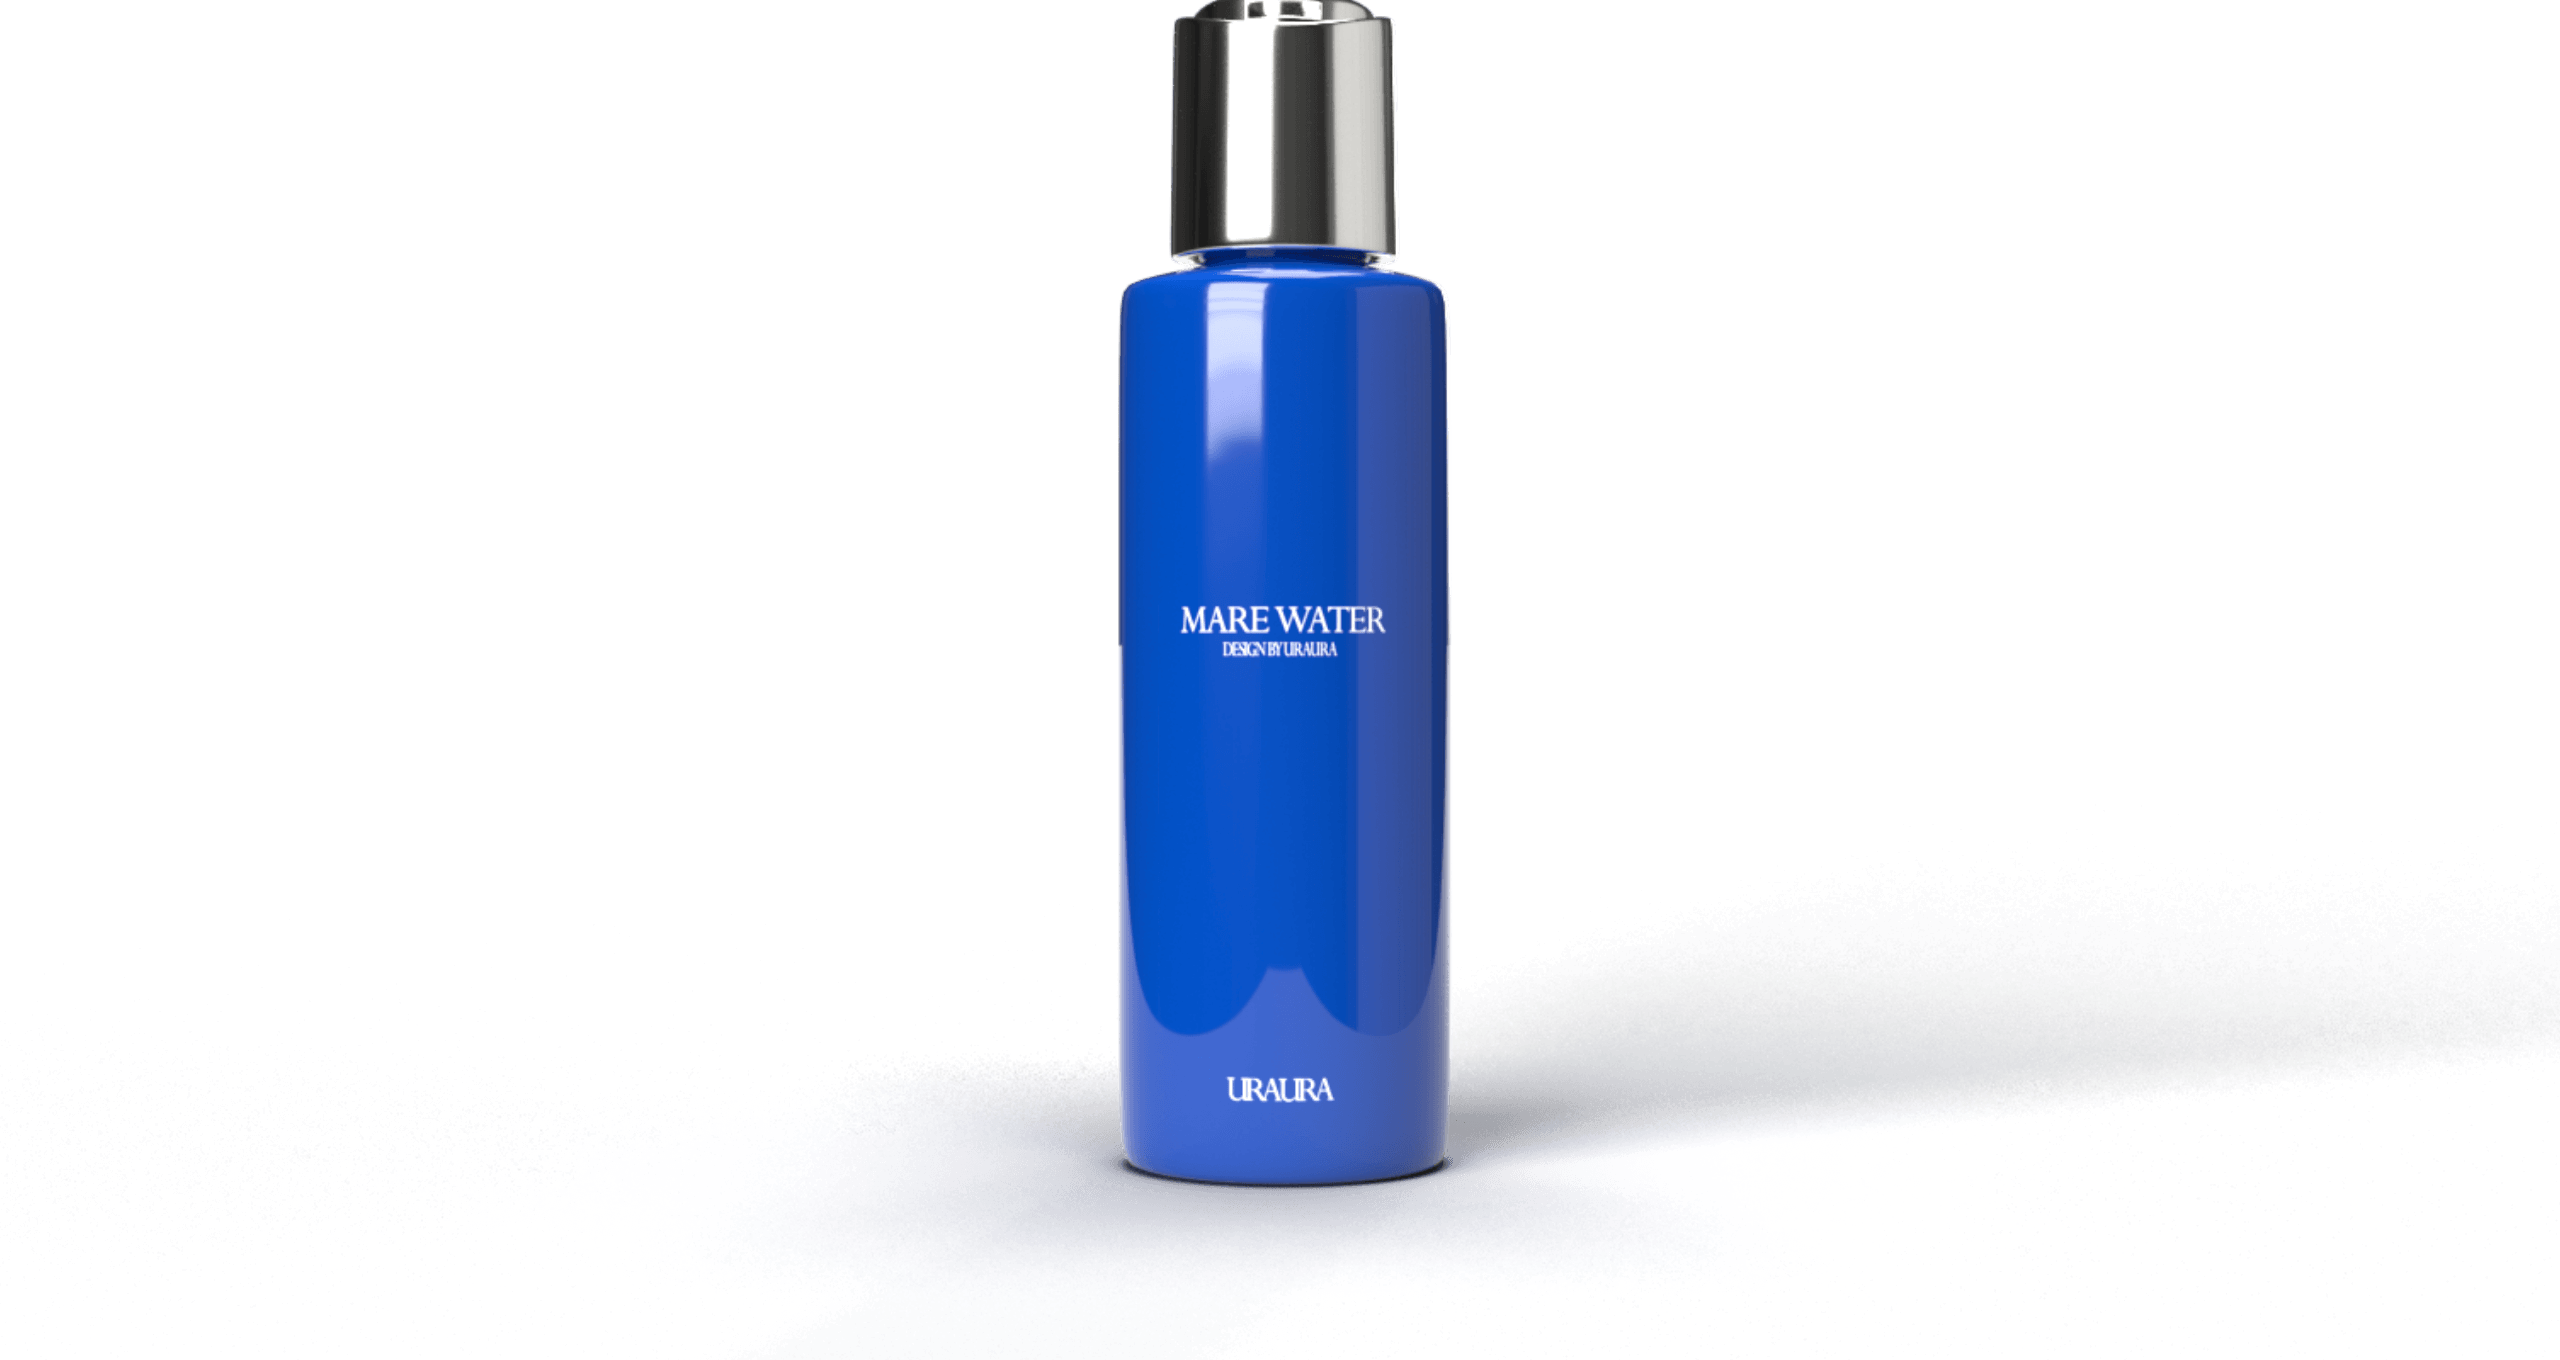
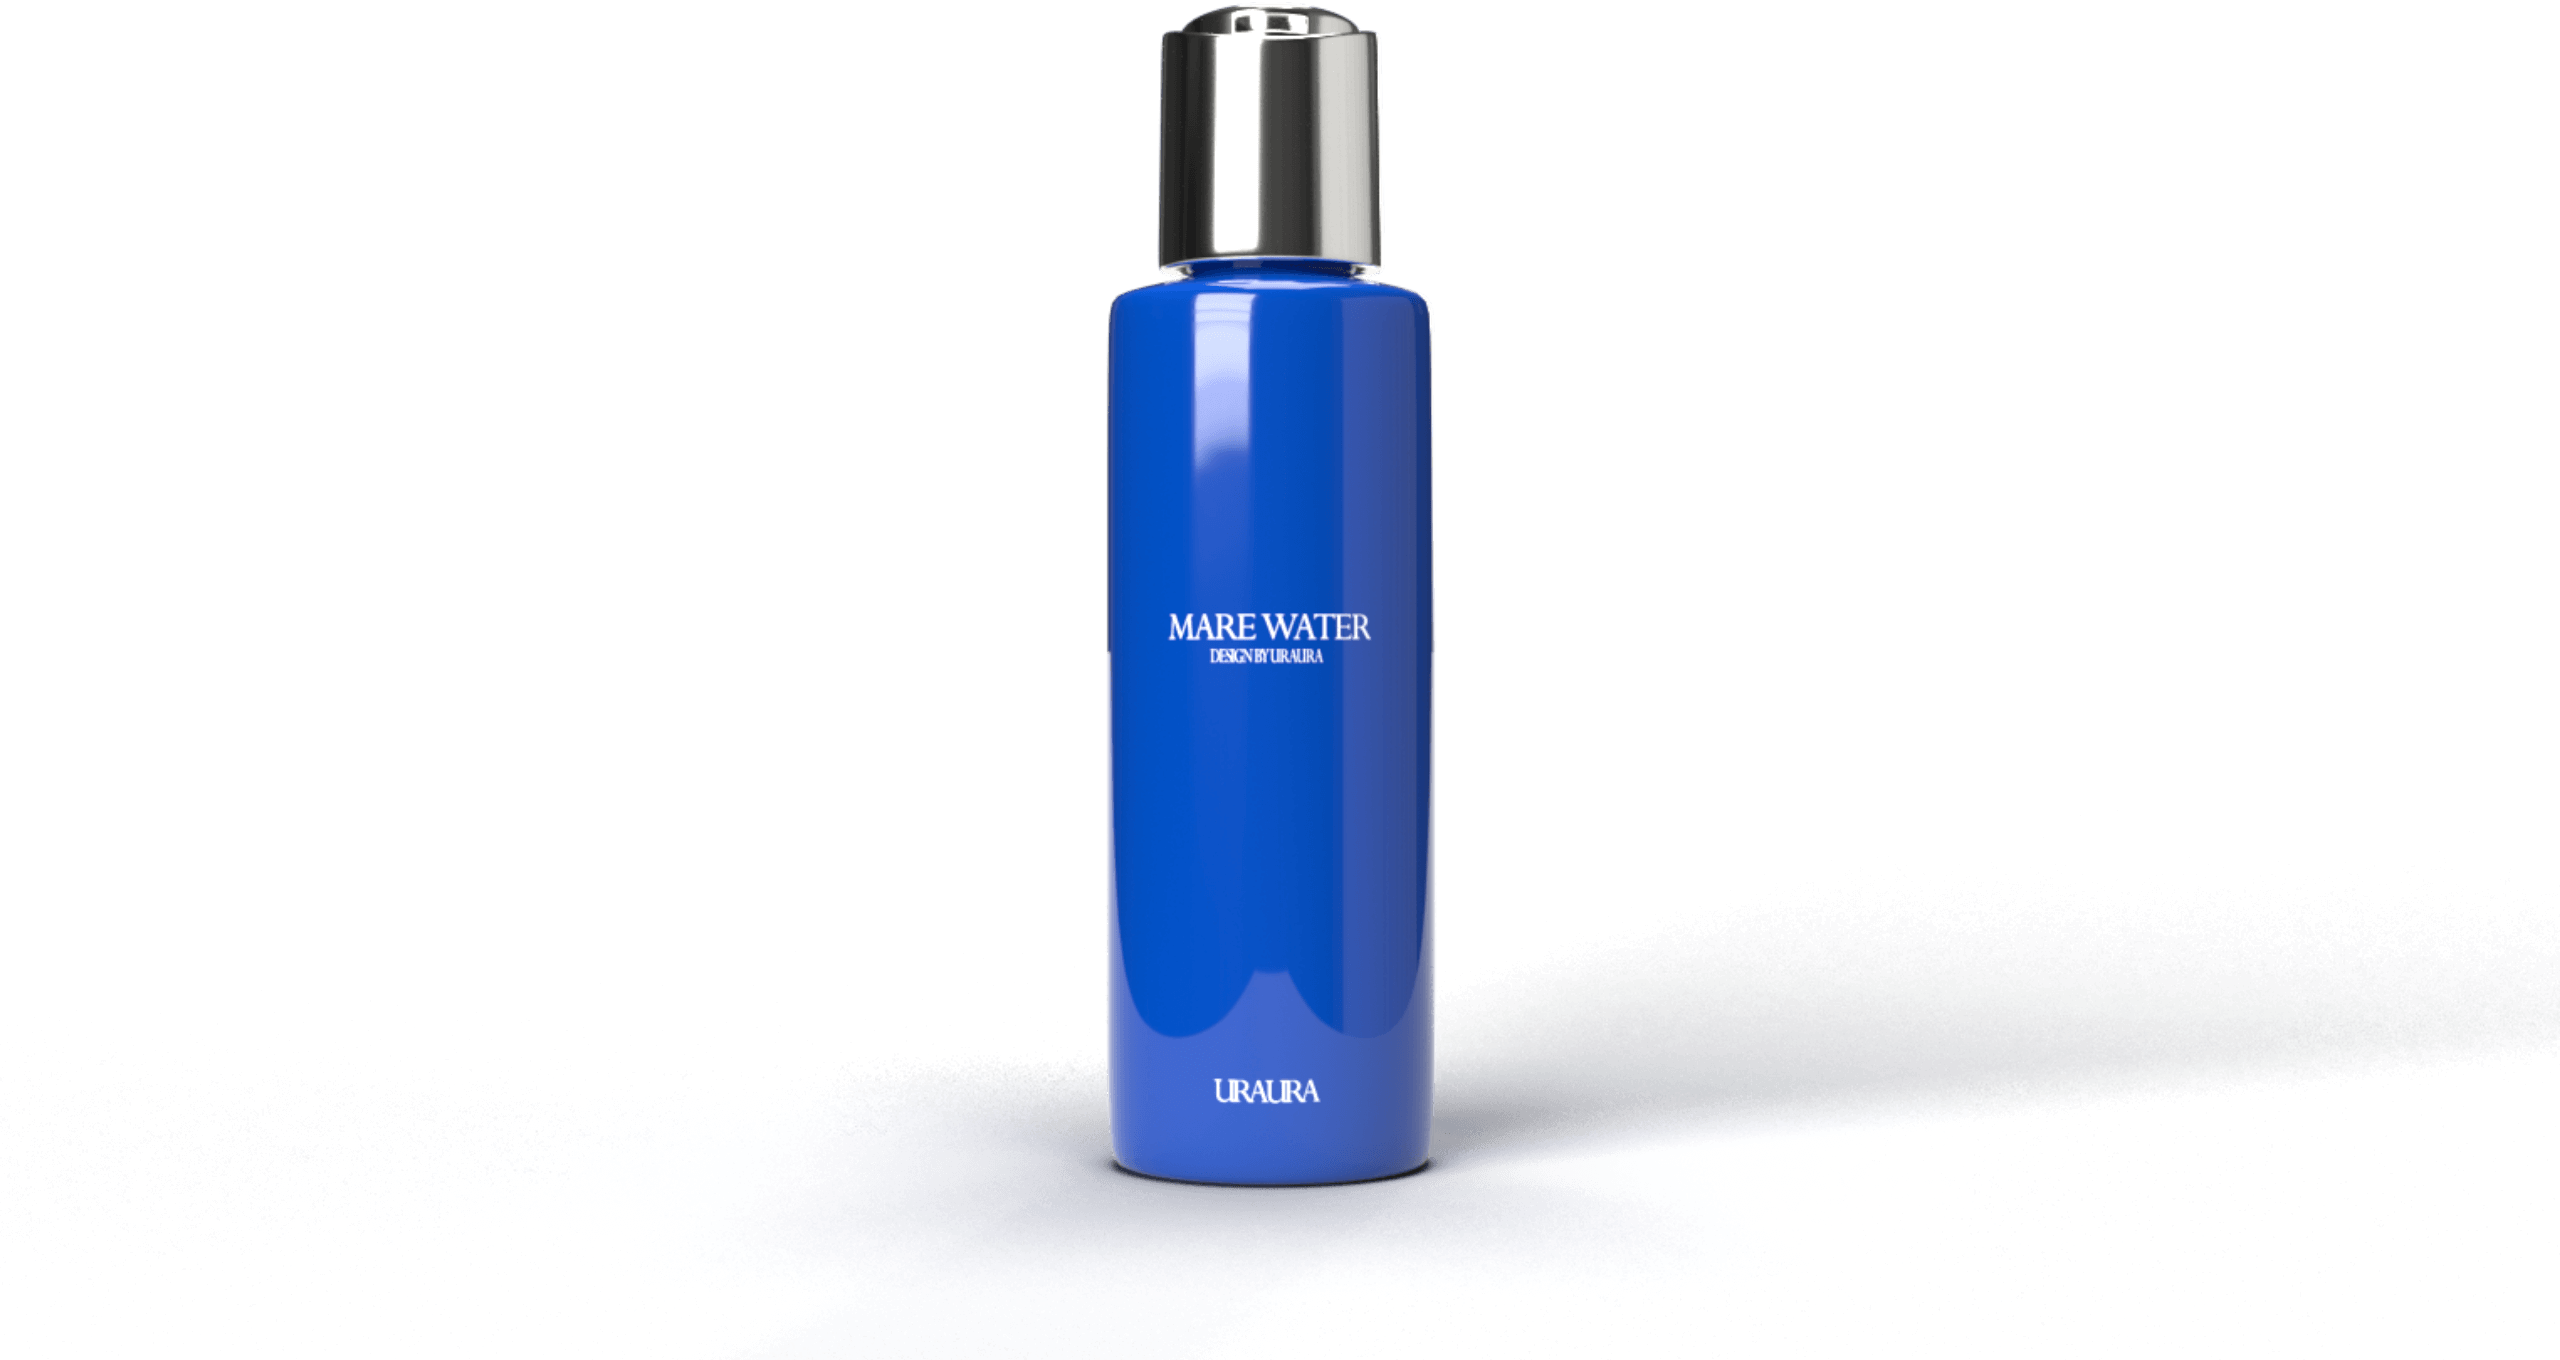
fix：eyecatch areaの画像編集

Changed region(s): [[0.4062, 0.0, 0.5938, 0.8956]]

diff --git a/index.html b/index.html
@@ -95,7 +95,7 @@
   <div class="eyecatch" id="eyecatch">
     <h1 class="eyecatch-title text-center">mare water</h1>
     <div class="eyecatch-box">
-      <img src="./img/product.png" class="img__sp" id="eyecatch-img__sp" alt="MARE WATERのボトル画像">
+      <img src="./img/product__sp.png" class="img__sp" id="eyecatch-img__sp" alt="MARE WATERのボトル画像">
       <img src="./img/product__pc.png" class="img__pc" id="eyecatch-img__pc" alt="MARE WATERのボトル画像">
     </div>
   </div>
